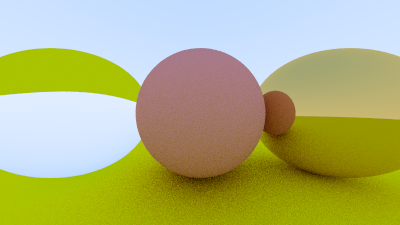
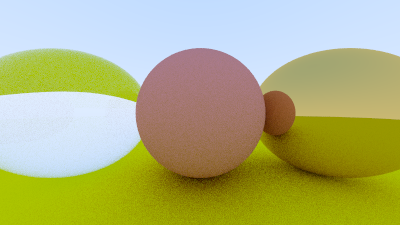
Task 9.4 Glass reflection

diff --git a/src/material.rs b/src/material.rs
@@ -81,12 +81,17 @@ impl Dielectric {
     fn refract(inc: Vec3, n: Vec3, ratio: f64) -> Vec3 {
         let co = -inc.dot(n);
         let si = (1.0 - co*co).sqrt();
-        if ratio * si > 1.0 { 
+        if ratio * si > 1.0 || Dielectric::schlik(ratio, co) > rand::random() { 
             return Metal::reflect_ray(inc, &n);
         }
         let perp = ratio * (inc + n * co);
         let para = -(1.0 - perp.dot(perp)).abs().sqrt() * n;
         perp + para
+    }
+
+    fn schlik(ratio: f64, co: f64) -> f64 {
+        let r0 = ((1.0 - ratio) / (1.0 + ratio)).powf(2.0);
+        r0 + (1.0 - r0) * (1.0 - co).powf(5.0)
     }
 }
 
